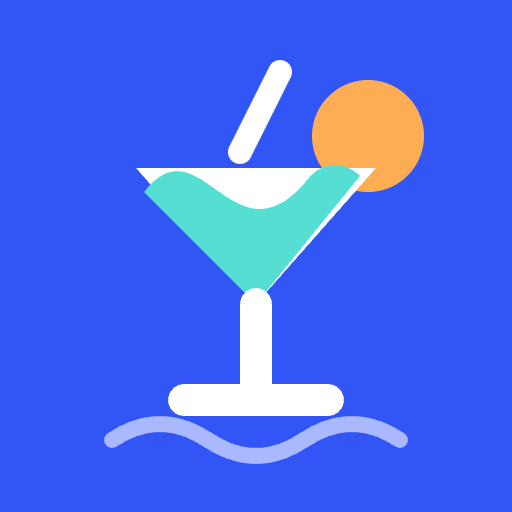
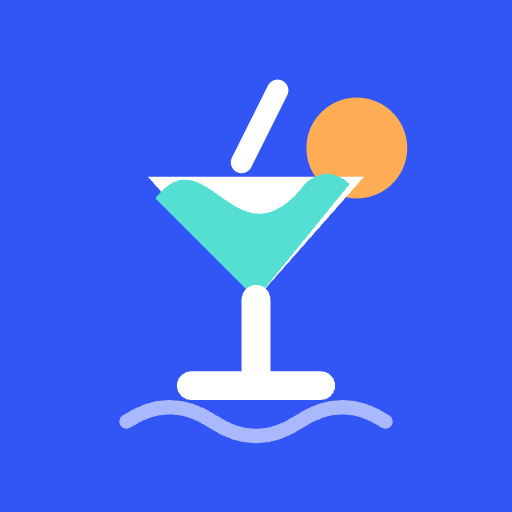
trying fixes again

diff --git a/tests/browser/install.spec.ts b/tests/browser/install.spec.ts
@@ -253,3 +253,135 @@ test("iOS touch guard blocks top-edge pulls while preserving inner scrolling and
     scrolling: false,
   });
 });
+
+for (const outcome of ["shared", "cancelled", "error"] as const) {
+  test(`iOS Open Share handles ${outcome} without claiming installation`, async ({
+    page,
+  }) => {
+    await simulateIOS(page);
+    await page.addInitScript((outcome) => {
+      Object.defineProperty(navigator, "share", {
+        configurable: true,
+        value: async (data: ShareData) => {
+          (window as unknown as { shared: ShareData }).shared = data;
+          if (outcome === "cancelled")
+            throw new DOMException("Cancelled", "AbortError");
+          if (outcome === "error")
+            throw new DOMException("Unavailable", "NotAllowedError");
+        },
+      });
+    }, outcome);
+    await page.setViewportSize({ width: 320, height: 740 });
+    await page.goto("/");
+    const offer = page.getByRole("complementary", {
+      name: "Add SipAhoy to your Home Screen",
+    });
+    await offer
+      .getByRole("button", { name: "Open Share", exact: true })
+      .click();
+    await expect(
+      offer.getByRole("button", { name: "Open Share", exact: true }),
+    ).toBeEnabled();
+    expect(
+      await page.evaluate(
+        () => (window as unknown as { shared: ShareData }).shared,
+      ),
+    ).toEqual({ title: "SipAhoy", url: "http://127.0.0.1:4173/" });
+    await expect(offer).toBeVisible();
+    if (outcome === "error")
+      await expect(offer.getByRole("alert")).toContainText(
+        "Safari’s own Share button",
+      );
+    else await expect(offer.getByRole("alert")).toHaveCount(0);
+    await expect(
+      page.getByText("Installation requested.", { exact: false }),
+    ).toHaveCount(0);
+    expect(await offer.evaluate((el) => el.scrollWidth <= el.clientWidth)).toBe(
+      true,
+    );
+    await offer.getByRole("button", { name: "Show me how" }).click();
+    const guide = page.getByRole("dialog", { name: "Install SipAhoy" });
+    await expect(
+      guide.getByRole("button", { name: "Open Share", exact: true }),
+    ).toBeVisible();
+    await expect(guide).toContainText(
+      outcome === "error"
+        ? "Couldn’t open Share"
+        : "If Add to Home Screen isn’t listed",
+    );
+    await guide
+      .getByRole("button", { name: "Open Share", exact: true })
+      .click();
+    await expect(
+      guide.getByRole("button", { name: "Open Share", exact: true }),
+    ).toBeEnabled();
+  });
+}
+
+test("iOS retains instructions when native sharing is unavailable", async ({
+  page,
+}) => {
+  await simulateIOS(page);
+  await page.addInitScript(() =>
+    Object.defineProperty(navigator, "share", { value: undefined }),
+  );
+  await page.goto("/");
+  await expect(page.getByRole("button", { name: "Show me how" })).toBeVisible();
+  await expect(
+    page.getByRole("button", { name: "Open Share", exact: true }),
+  ).toHaveCount(0);
+  await page.getByRole("button", { name: "Show me how" }).click();
+  await expect(
+    page.getByRole("dialog", { name: "Install SipAhoy" }),
+  ).toContainText("Add to Home Screen");
+});
+
+test("installation icons cover the complete square and all manifest candidates support masking", async ({
+  page,
+}) => {
+  await page.goto("/");
+  const result = await page.evaluate(async () => {
+    const touchLink = document.querySelector<HTMLLinkElement>(
+      'link[rel="apple-touch-icon"]',
+    )!;
+    const manifestLink = document.querySelector<HTMLLinkElement>(
+      'link[rel="manifest"]',
+    )!;
+    const manifest = await (await fetch(manifestLink.href)).json();
+    const icons = manifest.icons as {
+      src: string;
+      purpose: string;
+      sizes: string;
+    }[];
+    const urls = [
+      touchLink.href,
+      ...icons.map((icon) => new URL(icon.src, manifestLink.href).href),
+    ];
+    const corners = await Promise.all(
+      urls.map(async (url) => {
+        const image = new Image();
+        image.src = url;
+        await image.decode();
+        const canvas = document.createElement("canvas");
+        canvas.width = image.width;
+        canvas.height = image.height;
+        const ctx = canvas.getContext("2d")!;
+        ctx.drawImage(image, 0, 0);
+        return [
+          [0, 0],
+          [image.width - 1, 0],
+          [0, image.height - 1],
+          [image.width - 1, image.height - 1],
+        ].map(([x, y]) => [...ctx.getImageData(x, y, 1, 1).data]);
+      }),
+    );
+    return { touch: touchLink.href, icons, corners };
+  });
+  expect(result.touch).toContain("apple-touch-icon-v2.png");
+  expect(result.icons.some((icon) => icon.sizes === "1024x1024")).toBe(true);
+  expect(
+    result.icons.every((icon) => icon.purpose.split(" ").includes("maskable")),
+  ).toBe(true);
+  for (const icon of result.corners)
+    for (const pixel of icon) expect(pixel).toEqual([49, 86, 245, 255]);
+});

diff --git a/src/useInstallApp.ts b/src/useInstallApp.ts
@@ -47,6 +47,34 @@ export function useInstallApp() {
     "idle" | "prompting" | "accepted" | "dismissed" | "error"
   >("idle");
   const installing = useRef(false);
+  const [shareStatus, setShareStatus] = useState<
+    "idle" | "sharing" | "shared" | "error"
+  >("idle");
+  const sharing = useRef(false);
+  const canShare =
+    isIOS() && window.isSecureContext && typeof navigator.share === "function";
+  const openShare = async () => {
+    if (!canShare || installed || sharing.current) return;
+    sharing.current = true;
+    setShareStatus("sharing");
+    try {
+      // Call directly in the click handler to preserve Safari's user activation.
+      // This opens sharing UI; it does not prove that the app was installed.
+      await navigator.share({
+        title: "SipAhoy",
+        url: new URL(import.meta.env.BASE_URL, location.origin).href,
+      });
+      setShareStatus("shared");
+    } catch (error) {
+      setShareStatus(
+        error instanceof Error && error.name === "AbortError"
+          ? "idle"
+          : "error",
+      );
+    } finally {
+      sharing.current = false;
+    }
+  };
   const installationObserved = useRef(false);
   useEffect(() => {
     const modes = displayModes.map((mode) =>
@@ -94,6 +122,9 @@ export function useInstallApp() {
     canPrompt: !!promptEvent,
     status,
     install,
+    canShare,
+    openShare,
+    shareStatus,
     showIOSOffer: iosOffer && !installed,
     dismissIOSOffer,
   };

diff --git a/src/App.tsx b/src/App.tsx
@@ -56,6 +56,7 @@ import { dateLabel, localDate } from "./formatting";
 import { DrinkDescription } from "./components/DrinkDescription";
 import { useInstallApp } from "./useInstallApp";
 import { InstallGuide } from "./components/InstallGuide";
+import { IOSShareAction, IOSShareFeedback } from "./components/IOSShareAction";
 import { usePreventPullToRefresh } from "./usePreventPullToRefresh";
 import { Brand } from "./components/Brand";
 import { Skipper } from "./components/Skipper";
@@ -431,7 +432,7 @@ export default function App() {
               aria-label="Add SipAhoy to your Home Screen"
             >
               <img
-                src={`${import.meta.env.BASE_URL}apple-touch-icon.png`}
+                src={`${import.meta.env.BASE_URL}apple-touch-icon-v2.png`}
                 width="48"
                 height="48"
                 alt=""
@@ -443,6 +444,7 @@ export default function App() {
                   to add it.
                 </p>
                 <div className="ios-install-actions">
+                  <IOSShareAction installation={installation} />
                   <button
                     className="button primary"
                     onClick={() => {
@@ -459,6 +461,7 @@ export default function App() {
                     Not now
                   </button>
                 </div>
+                <IOSShareFeedback installation={installation} />
               </div>
             </aside>
           )}

diff --git a/vite.config.ts b/vite.config.ts
@@ -12,7 +12,9 @@ export default defineConfig({
         "icon-192.png",
         "icon-512.png",
         "apple-touch-icon.png",
+        "apple-touch-icon-v2.png",
         "icon-maskable-512.png",
+        "icon-maskable-1024.png",
       ],
       manifest: {
         name: "SipAhoy — Your cruise drink journal",
@@ -23,12 +25,25 @@ export default defineConfig({
         display: "standalone",
         start_url: ".",
         icons: [
-          { src: "icon-192.png", sizes: "192x192", type: "image/png" },
+          // Every candidate is opaque and full-bleed, so Safari need not inset an
+          // `any`-only image onto a white tile when choosing an installation icon.
+          {
+            src: "icon-192.png",
+            sizes: "192x192",
+            type: "image/png",
+            purpose: "any maskable",
+          },
           {
             src: "icon-512.png",
             sizes: "512x512",
             type: "image/png",
-            purpose: "any",
+            purpose: "any maskable",
+          },
+          {
+            src: "icon-maskable-1024.png",
+            sizes: "1024x1024",
+            type: "image/png",
+            purpose: "any maskable",
           },
           {
             src: "icon-maskable-512.png",

diff --git a/src/components/IOSShareAction.tsx b/src/components/IOSShareAction.tsx
@@ -1,0 +1,39 @@
+import { Share } from "lucide-react";
+import type { useInstallApp } from "../useInstallApp";
+
+/** Opens the native share sheet without promising an installation-only action. */
+export function IOSShareAction({
+  installation,
+}: {
+  installation: ReturnType<typeof useInstallApp>;
+}) {
+  if (!installation.canShare || installation.installed) return null;
+  return (
+    <button
+      className="button primary"
+      disabled={installation.shareStatus === "sharing"}
+      onClick={installation.openShare}
+    >
+      <Share size={18} />
+      {installation.shareStatus === "sharing" ? "Opening Share…" : "Open Share"}
+    </button>
+  );
+}
+
+export function IOSShareFeedback({
+  installation,
+}: {
+  installation: ReturnType<typeof useInstallApp>;
+}) {
+  if (!installation.canShare || installation.installed) return null;
+  return (
+    <p
+      className="install-note"
+      role={installation.shareStatus === "error" ? "alert" : undefined}
+    >
+      {installation.shareStatus === "error"
+        ? "Couldn’t open Share. Use Safari’s own Share button, then Add to Home Screen."
+        : "If Add to Home Screen isn’t listed, use Safari’s own Share button instead."}
+    </p>
+  );
+}

diff --git a/src/components/InstallGuide.tsx b/src/components/InstallGuide.tsx
@@ -2,6 +2,7 @@ import { useState } from "react";
 import { Check, Download, Smartphone } from "lucide-react";
 import { type useInstallApp } from "../useInstallApp";
 import { isIOS } from "../useInstallApp";
+import { IOSShareAction, IOSShareFeedback } from "./IOSShareAction";
 
 type Platform = "ios" | "android" | "desktop" | "safari";
 function currentPlatform(): Platform {
@@ -109,6 +110,8 @@ export function InstallGuide({
           {status === "prompting" ? "Waiting for your browser…" : "Install now"}
         </button>
       )}
+      {platform === "ios" && <IOSShareAction installation={installation} />}
+      {platform === "ios" && <IOSShareFeedback installation={installation} />}
       {status === "accepted" && (
         <p className="install-feedback" role="status">
           Installation requested. Open SipAhoy from your home screen or app

diff --git a/tests/browser/menu-sheet.spec.ts b/tests/browser/menu-sheet.spec.ts
@@ -130,6 +130,11 @@ test("handle supports taps and keyboard, reflows on rotation, and respects reduc
   await expect(menu).toHaveAttribute("data-sheet", "expanded");
   await expect(menu).toHaveCSS("transition-duration", "0s");
   await handle.press("ArrowDown");
+  await expect(handle).toHaveCSS("outline-style", "none");
+  await expect(handle.locator("span")).toHaveCSS(
+    "background-color",
+    "rgb(53, 79, 255)",
+  );
   await expect(menu).toHaveAttribute("data-sheet", "compact");
   await handle.press("ArrowUp");
   await expect(menu).toHaveAttribute("data-sheet", "expanded");

diff --git a/index.html b/index.html
@@ -12,7 +12,7 @@
       content="Offline cruise drink tracking, editable menus, and package comparisons."
     />
     <link rel="icon" href="/icon.svg" />
-    <link rel="apple-touch-icon" sizes="180x180" href="/apple-touch-icon.png" />
+    <link rel="apple-touch-icon" sizes="180x180" href="/apple-touch-icon-v2.png" />
     <title>SipAhoy · Cruise drink tracker</title>
   </head>
   <body>

diff --git a/src/style.css b/src/style.css
@@ -4142,6 +4142,10 @@ a:focus-visible {
 .sheet-handle {
   display: none;
 }
+.sheet-handle:focus,
+.sheet-handle:focus-visible {
+  outline: none;
+}
 @media (max-width: 700px) {
   .navigation-menu[data-sheet] {
     display: flex;

diff --git a/docs/brand.md b/docs/brand.md
@@ -7,8 +7,8 @@ The revised identity uses electric cobalt (`#3156f5`), fizzy aqua (`#38cfcc`), t
 - [Skipper mascot](../public/brand/skipper.png): original transparent octopus captain, generated with the built-in image-generation tool, then resized to a 640px maximum edge for the app. No third-party asset requests are needed at runtime.
 - [Logo source](../public/icon.svg): code-native vector mark combining a drink glass, aqua wave, sunset, and straw. Used by the shared wordmark and browser favicon.
 - [192px app icon](../public/icon-192.png) and [512px app icon](../public/icon-512.png): rasterized from the vector source for installation and home-screen use.
-- [Apple touch icon](../public/apple-touch-icon.png): dedicated 180px icon with an opaque cobalt background covering the entire square. iOS applies the corner mask; rounding or transparency must not be baked into installation icons.
-- [Maskable icon](../public/icon-maskable-512.png): separate 512px artwork with the foreground reduced to fit the central safe area. The manifest uses distinct `any` and `maskable` entries.
+- [Apple touch icon](../public/apple-touch-icon-v2.png): dedicated 180px icon with an opaque cobalt background covering the entire square. Its versioned URL avoids reusing the previous cached icon. iOS applies the corner mask; rounding or transparency must not be baked into installation icons.
+- [512px maskable icon](../public/icon-maskable-512.png) and [1024px maskable icon](../public/icon-maskable-1024.png): full-bleed artwork with modest foreground padding. All manifest candidates are marked `maskable` (including those also marked `any`) to avoid an inset icon on a white tile. The high-resolution candidate follows [Apple’s Safari guidance](https://developer.apple.com/documentation/safari-release-notes/safari-17_2-release-notes).
 
 Regenerate installation icons with `node scripts/generate-icons.mjs` after changing the SVG. This uses the project's Playwright dependency and local Chrome; the rounded favicon remains unchanged. The generator fills the full canvas before drawing the mark. If iOS retains an old installed icon, export a JSON journal backup before removing/re-adding the Home Screen app, because removal can discard that app's local data.
 

diff --git a/README.md b/README.md
@@ -83,6 +83,13 @@ This README is the project ledger. Update the milestone checkboxes and progress 
 
 ## Progress log
 
+### 2026-11-14 — Install icon selection, quiet handle focus, and native sharing
+
+- Marked every manifest icon candidate as maskable, added a full-bleed 1024px candidate following Apple's Safari guidance, increased maskable foreground size, and versioned the Apple touch icon URL. This addresses browser padding/fallback and cached-icon selection; actual Home Screen rendering still needs iPhone verification.
+- Removed the yellow outline specifically from the menu grip. Keyboard focus still changes the grip to cobalt; other controls retain their focus outlines.
+- Added Open Share to the iOS invitation and installation guide when native sharing is available. The button opens the system share sheet with the app URL. The guide remains available if sharing fails or Add to Home Screen is absent. Cancellation is quiet, and successful sharing never marks the app installed. iOS still has no direct install prompt API; native-share actions are selected by the browser/OS.
+- Validation: root and `/sip-ahoy/` production builds, 39 unit tests, and 14 targeted installation/menu browser scenarios passed. Checks cover native-share success/cancellation/errors and unsupported browsers, no false installed state, every icon's opaque corner pixels/masking metadata, and the grip's keyboard focus and touch gestures. Visually reviewed the banner at 320px. Native iOS share actions and final Home Screen icon rendering still require physical-device verification.
+
 ### 2026-11-14 — iOS installation and pull-to-refresh fixes
 
 - Rebuilt installation icons with opaque cobalt corners, added a dedicated 180px Apple touch icon, and separated the maskable icon with safe artwork padding. iOS now applies its own corner mask without white showing through. Existing installed icons may stay cached; export a JSON backup before removing/re-adding an installed app.
